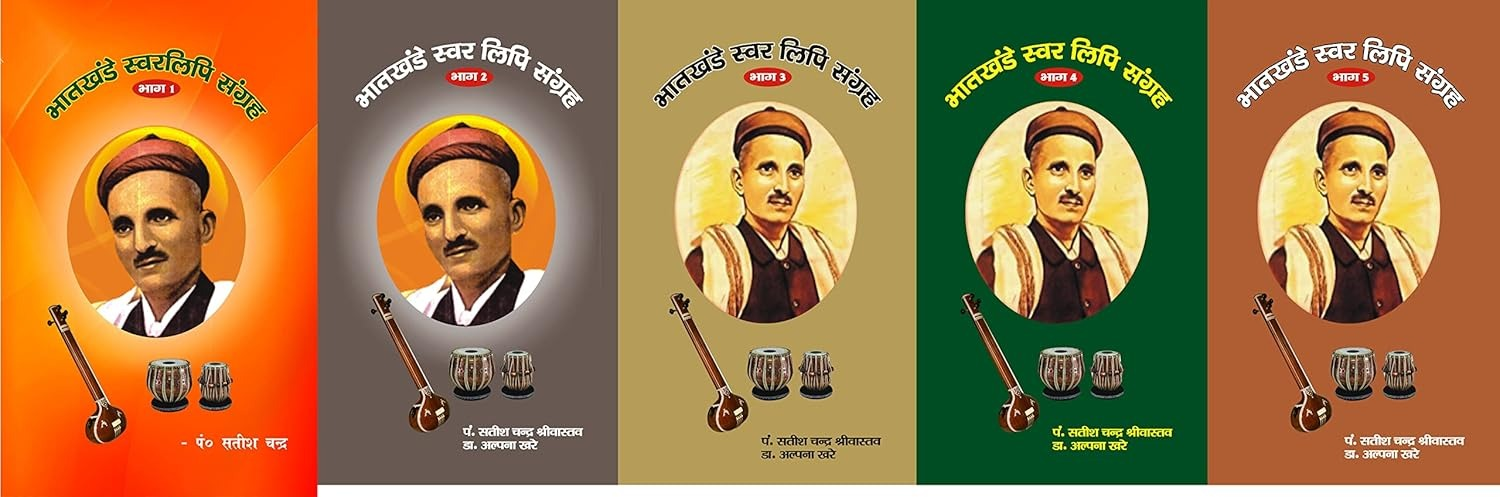
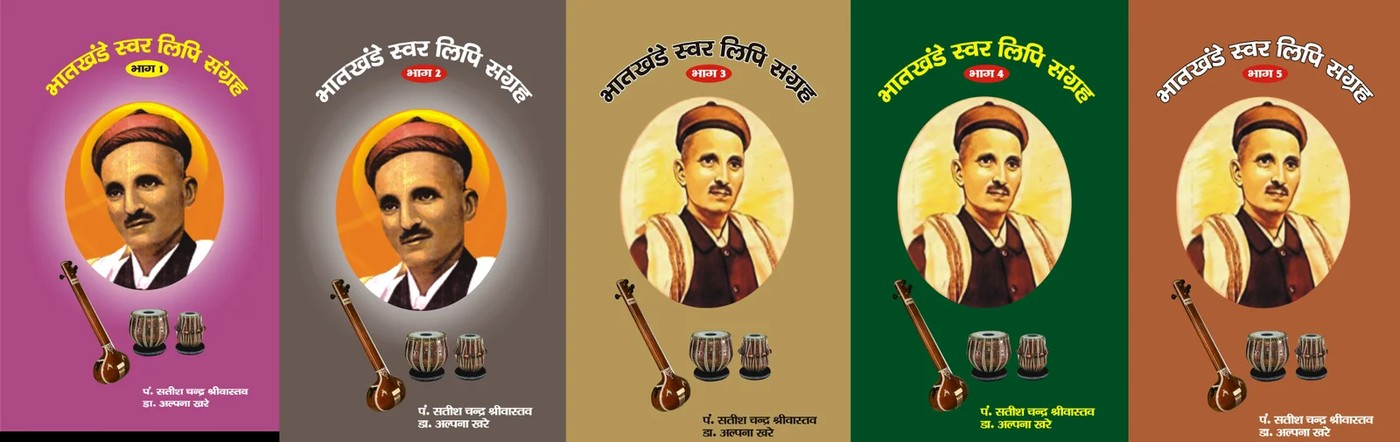
feat: complete real cover images for all 36 books
- Add covers for remaining 4 bundles (Introduction of Raags, Bhatkhande
  Notation 1-3, Bal Sangit Sangrah, Swar Vadan complete sets)
- Add real cover for Swar Vadan Part 5 (previously placeholder)
- Replace Bhatkhande Notation 1-5 bundle cover with cleaner supplied version
- Update CLAUDE.md/tasks.md: all 36 books now have real cover photos

diff --git a/lib/books.ts b/lib/books.ts
@@ -50,6 +50,7 @@ export const books: Book[] = [
     authors: ['पं० सतीश चन्द्र श्रीवास्तव', 'रोहित कुमार'],
     description:
       'A complete collection of 5 books for students of Guitar, Sitar, Harmonium, Bansuri, Sarod, Casio, Mandolin, Sarangi and more. Covers raag introductions, alaap, Maseetkhani gat, Razakhani gat, taan and jhala across 130 ragas - aligned with syllabi from Class 9 through Post-Graduation, Prayag Sangit Samiti, Pracheen Kala Kendra, and Gandharv Mahavidyalay Mumbai (Year 1–8 Pravin).',
+    coverImage: '/covers/swar-vadan-complete-set.jpg',
     series: 'Swar Vadan',
     isBundle: true,
     isFeatured: true,
@@ -67,6 +68,7 @@ export const books: Book[] = [
     authors: ['पं० सतीश चन्द्र श्रीवास्तव'],
     description:
       'A 3-book series with photographs of musicians and instruments, basic music knowledge, easy compositions and notations of ragas and talas, orchestra concepts, vandana, prayers, patriotic songs, children\'s songs, English songs, and biographies of renowned musicians. Specially designed for students up to Class 8 and beginners.',
+    coverImage: '/covers/bal-sangit-sangrah-complete-set.jpg',
     series: 'Bal Sangit Sangrah',
     isBundle: true,
     isFeatured: true,
@@ -84,6 +86,7 @@ export const books: Book[] = [
     authors: ['Pt. Satish Chandra Srivastava', 'Rohit Kumar'],
     description:
       'A set of 2 Hindustani Music books in English - useful for students of Class 9 to 12, Prayag Sangit Samiti Allahabad and Pracheen Kala Kendra for first to fourth year. Covers both Theory and Practical.',
+    coverImage: '/covers/introduction-of-raags-complete-set.jpg',
     series: 'Introduction of Raags',
     isBundle: true,
     isFeatured: false,
@@ -101,6 +104,7 @@ export const books: Book[] = [
     authors: ['पं० सतीश चन्द्र श्रीवास्तव', 'डॉ० अल्पना खरे'],
     description:
       'A 3-book set for Hindustani Classical Vocal in Hindi, covering 56 ragas with notation. Each raga includes introduction, aaroh-avroh, pakad, nyaas swar, similar ragas, alaap, taan, chhota khayal, bada khayal, dhrupad, dhamar and tarana. Suitable for Prayag Sangit Samiti, Pracheen Kala Kendra, Gandharv Mahavidyalay and Class 9 to B.A.',
+    coverImage: '/covers/bhatkhande-notation-1-3-set.jpg',
     series: 'Bhatkhande Notation',
     isBundle: true,
     isFeatured: true,
@@ -138,6 +142,7 @@ export const books: Book[] = [
     authors: ['पं० सतीश चन्द्र श्रीवास्तव (सितार वादक)', 'रोहित कुमार'],
     description:
       'For M.A. Sangit Pravin, Sangit Bhaskar and equivalent students. Covers 30 ragas - 15 detailed (Bilaskhani Todi, Megh Malhar, Jogkauns, Nayaki Kanhada, Kaunsi Kanhada, Suha, Hemant, Shyam Kalyan, Gorakh Kalyan, Devgiri Bilawal, Yamani Bilawal, Bhatiyar, Jhinjhoti, Miyan Ki Sarang, Jaitashri) and 15 in brief. Each includes alaap, Maseetkhani gat, Razakhani gat, tihai and jhala.',
+    coverImage: '/covers/swar-vadan-part-5.jpg',
     series: 'Swar Vadan',
     part: 5,
     isFeatured: true,

diff --git a/CLAUDE.md b/CLAUDE.md
@@ -61,7 +61,7 @@ Key Tailwind classes in use: `text-gold`, `text-cream`, `bg-dark`, `input-gold`,
 | OTP verification | Mock — code shown on screen |
 | WhatsApp notifications | UI only — no Meta/Twilio API |
 | Google OAuth | Simulated UI — no real token |
-| Book images | Real — 31 of 36 books have real cover photos; 4 bundle covers + Swar Vadan Part 5 still use the generated placeholder |
+| Book images | Real — all 36 books have real cover photos |
 | Admin auth | localStorage password gate (`ssp@admin`) |
 | SEO metadata | Real — generateMetadata() on all public pages |
 | Sitemap | Real — auto-generated at /sitemap.xml for all pages + 36 books |
@@ -170,7 +170,6 @@ Categories: `instrumental` (व), `vocal` (ग), `raag-theory` (र), `kathak` (
 
 ### Remaining Phase 1 work
 - Razorpay account approval + payment integration (blocked on Bharani)
-- Cover photos for the remaining 4 bundle sets + Swar Vadan Part 5 (still placeholders)
 - Founder timeline — real photos, refined content (mobile scroll fix done in PR #4)
 
 ---

diff --git a/tasks.md b/tasks.md
@@ -42,8 +42,7 @@
 ### Book content
 - [x] Add missing books to catalog (Swar Vadan Part 1, Raag Shastra Parichay Part 3, Concepts of Vocal Music Class 9–12, Concepts of Instrumental Music Class 9–12, Sangit Saar Class 11, Bal Sangit Parts 1–3, Treasure of Raags & Taals)
 - [x] Fixed duplicate catalog entries (sv-1, rsp-3 were listed twice) — 36 unique books, down from 38 array entries
-- [x] Real book cover images — 31 of 36 books have real cover photos (30 from the print catalogue PDF, 1 bundle collage supplied directly)
-- [ ] Cover photos for the remaining 4 bundle sets + Swar Vadan Part 5 (still placeholder covers)
+- [x] Real book cover images for all 36 books (30 from the print catalogue PDF, 6 bundle/individual covers supplied directly)
 - [x] Verified all book/bundle prices against the print catalogue
 - [ ] Final copy for descriptions, table of contents, author bios
 - [ ] Book detail pages — richer layout with TOC, edition/ISBN, sample pages (currently description-only)
